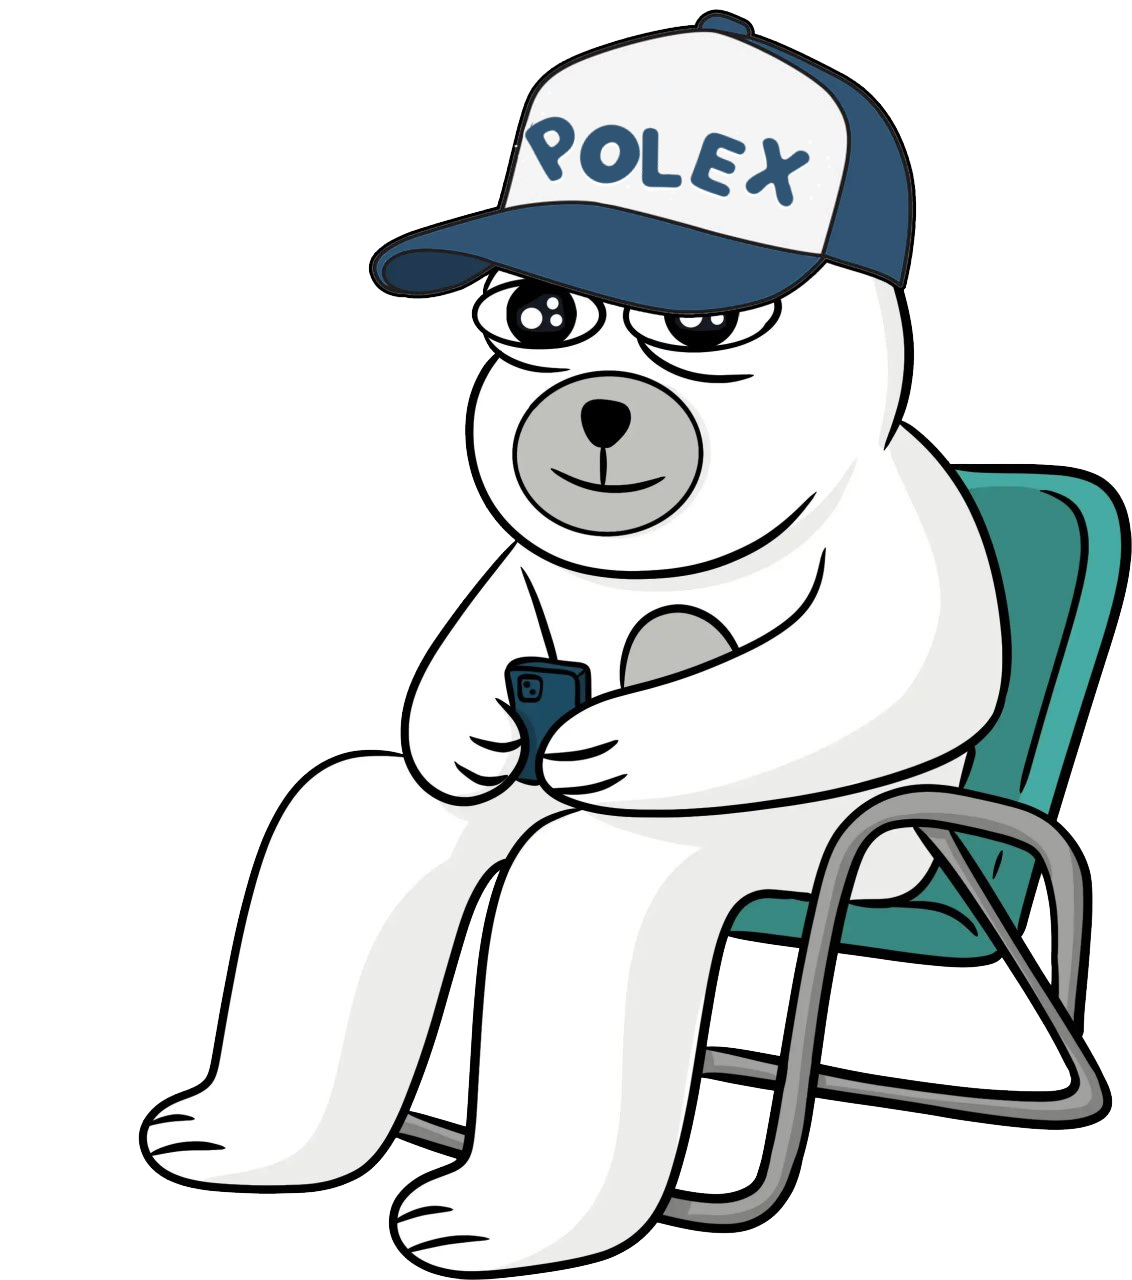
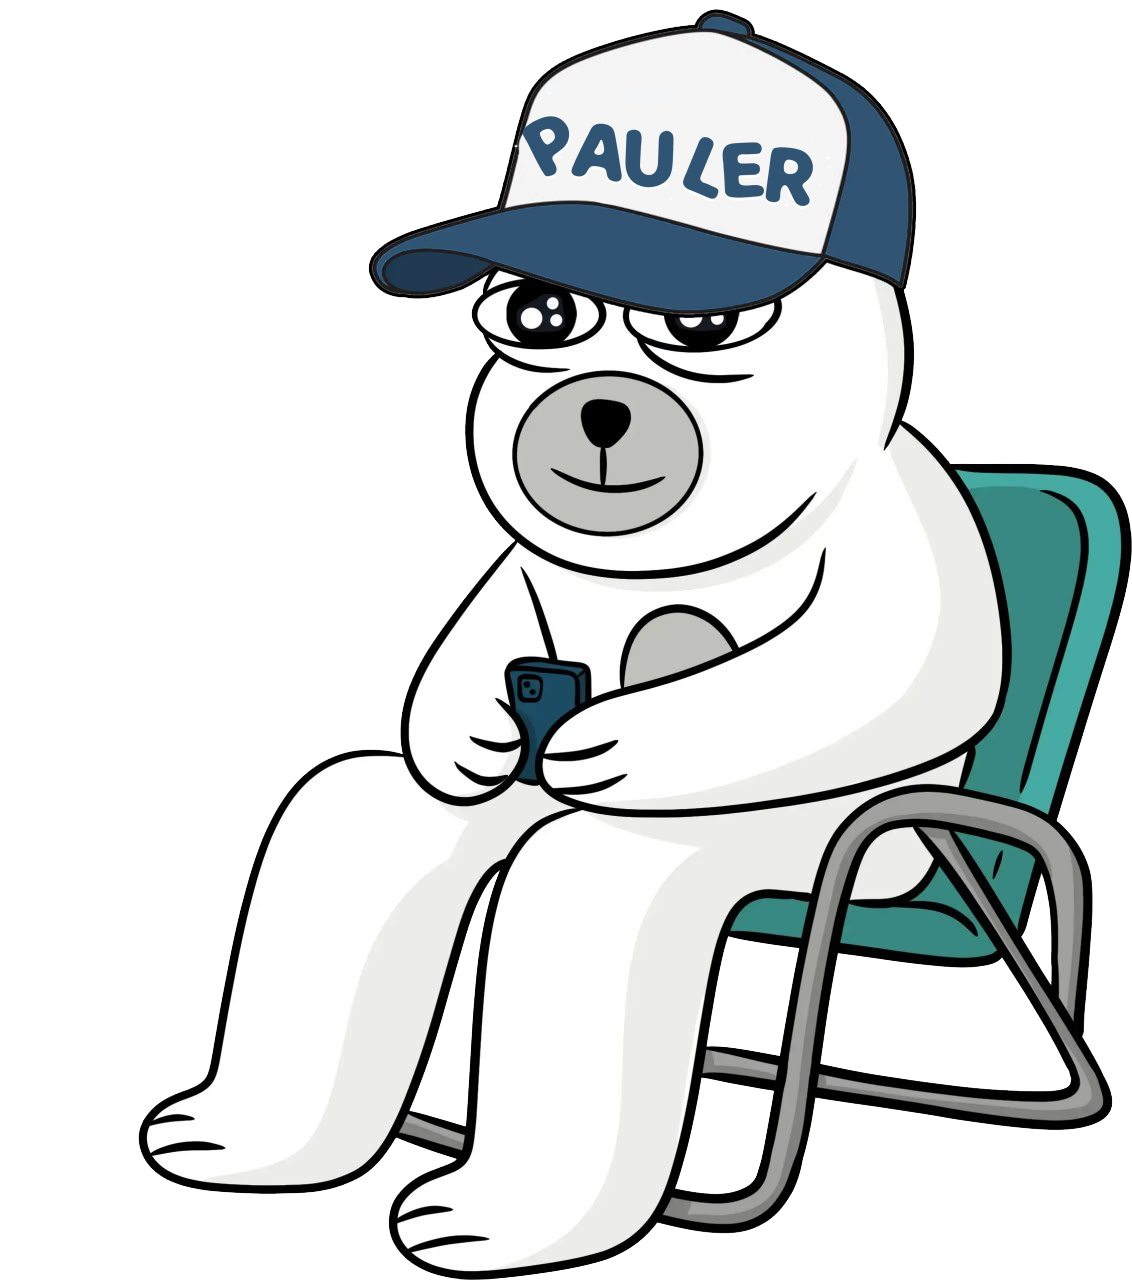
1

Changed region(s): [[0.4638, 0.0938, 0.742, 0.1875]]

diff --git a/index.html b/index.html
@@ -16,22 +16,22 @@
 		<meta name="distribution" content="global"> 
 		<meta name="robots" content="index,follow"> 
 		<meta name="country" content="US">
-		<meta name="description" content="POLEX is the newest charismatic fluffy ruler of the frozen crypto tundra. This fun, decentralized, community-driven token is built on Solana Chain.">
+		<meta name="description" content="PAULER is the newest charismatic fluffy ruler of the frozen crypto tundra. This fun, decentralized, community-driven token is built on Solana Chain.">
 		<meta name="google-site-verification" content="">
 		
 		<!-- Open Graph Meta Tags -->
 		<meta property="og:type" content="website">
 		<meta property="og:url" content="">
-		<meta property="og:title" content="Polex | The Official Polex Bear on Solanachain">
-		<meta property="og:description" content="POLEX is the newest charismatic fluffy ruler of the frozen crypto tundra. This fun, decentralized, community-driven token is built on Solana Chain.">
+		<meta property="og:title" content="Pauler | The Official Pauler Bear on Solanachain">
+		<meta property="og:description" content="PAULER is the newest charismatic fluffy ruler of the frozen crypto tundra. This fun, decentralized, community-driven token is built on Solana Chain.">
 
 		
 		<!-- Twitter Card Meta Tags -->
 		<meta name="twitter:card" content="summary_large_image">
 		<meta name="twitter:site" content="@polaonbase">
 		<meta name="twitter:url" content="https://www.polaonbase.com/">
-		<meta name="twitter:title" content="Polex | The Official Polexr Bear on Solanachain">
-		<meta name="twitter:description" content="POLEX is the newest charismatic fluffy ruler of the frozen crypto tundra. This fun, decentralized, community-driven token is built on Solana Chain.">
+		<meta name="twitter:title" content="Pauler | The Official Paulerr Bear on Solanachain">
+		<meta name="twitter:description" content="PAULER is the newest charismatic fluffy ruler of the frozen crypto tundra. This fun, decentralized, community-driven token is built on Solana Chain.">
 		<meta property="twitter:image" content="https://polaonbase.com/assets/images/pola-twitter-og.jpg">
 		
 		<!-- Favicon and Additional Resources -->
@@ -45,7 +45,7 @@
 		<meta name="msapplication-TileColor" content="#9c2730">
 		<meta name="theme-color" content="#ffffff">
 		
-		<title>Polex | The Official Polar Bear on Solanachain</title>
+		<title>Pauler | The Official Polar Bear on Solanachain</title>
 		<link href="assets/css/include.css" rel="stylesheet">
 		<!-- Google tag (gtag.js) -->
 		<script async src="https://www.googletagmanager.com/gtag/js?id=G-083C66RB80"></script>
@@ -72,14 +72,15 @@
 					<div class="hero w-100">
 						<h1 class="banner milky display-l lh-1 hstack align-items-center justify-content-center text-blue-4">
 							<span>P</span>
-							<span>O</span>
+							<span>A</span>
+							<span>U</span>
 							<span>L</span>
-							<span>E</span>
-							<span>X</span>
+							<span style="rotate: -10deg; margin-left:-20px; margin-right: 10px;">E</span>
+							<span>R</span>
 
 						</h1>
 						<div class="vstack mx-auto col-12 col-xl-6 milky fs-3 text-center gap-1 lh-base text-blue-4">
-							<span>Hi I'm Polex</span>
+							<span>Hi I'm Pauler</span>
 							<span>I'm the coldest, chillest, and funniest bear</span>
 							<span>in the entire SOLArctic. Welcome to my world.</span>
 						</div>
@@ -138,8 +139,8 @@
 				<div class="container py-5 position-relative">
 					<div class="d-flex flex-column col-12 col-lg-8 justify-content-center gap-4 text-center position-relative z-1 py-0 py-md-5 text-blue-4 milky">
 						<h2 class="display-3">A New King Has Risen</h2>
-						<p class="fs-5 lh-base">Meet Polex, the latest ruler of the icy domains of cryptocurrency, a royal polar bear who's more chilled than the arctic ice and cooler than the other side of the pillow. Born on the vast, frostbitten landscapes of the Solana Chain, this fluffy monarch has swiftly ascended to the throne, not through bloodshed or conquest, but with sheer charisma and an unshakable belief in the power of meme magic.</p>
-						<p class="fs-5 lh-base">This is not your average bear. Polex's reign is marked by his unorthodox approach to governance; he rules with a gentle paw and a heart as big as his appetite for salmon. In a world where seriousness often overshadows fun, Polex dares to ask, "Why not both?" He's democratizing the crypto kingdom one belly slide at a time, proving that you can indeed mix business with pleasure and that every bear can have his fish and eat it too.</p>
+						<p class="fs-5 lh-base">Meet Pauler, the latest ruler of the icy domains of cryptocurrency, a royal polar bear who's more chilled than the arctic ice and cooler than the other side of the pillow. Born on the vast, frostbitten landscapes of the Solana Chain, this fluffy monarch has swiftly ascended to the throne, not through bloodshed or conquest, but with sheer charisma and an unshakable belief in the power of meme magic.</p>
+						<p class="fs-5 lh-base">This is not your average bear. Pauler's reign is marked by his unorthodox approach to governance; he rules with a gentle paw and a heart as big as his appetite for salmon. In a world where seriousness often overshadows fun, Pauler dares to ask, "Why not both?" He's democratizing the crypto kingdom one belly slide at a time, proving that you can indeed mix business with pleasure and that every bear can have his fish and eat it too.</p>
 					</div>
 				</div>
 				<div class="baby-pola"></div>
@@ -149,17 +150,17 @@
 					<div class="d-flex flex-column-reverse flex-md-row gap-4">
 						<div class="d-flex flex-column justify-content-center gap-4 col-12 col-md-6">
 							<div class="d-flex flex-column gap-1 text-blue-4">
-								<span class="fs-4 milky lh-base">Polex on Solanachain</span>
-								<h2 class="milky display-s lh-1 ">OFFICIAL POLEX LINKS</h2>
+								<span class="fs-4 milky lh-base">Pauler on Solanachain</span>
+								<h2 class="milky display-s lh-1 ">OFFICIAL PAULER LINKS</h2>
 							</div>
 
 							<div class="d-flex flex-column gap-2">
 								<span class="fs-6 milky fw-bolder text-blue-4">Social &amp; Onchain Data</span>
 								<div class="socials hstack gap-3">
-									<a href="https://x.com/polexsolana" target="_blank">
+									<a href="https://x.com/paulersol" target="_blank">
 										<div class="icon twitter rounded-circle"></div>
 									</a>
-									<a href="https://t.me/polexsolana" target="_blank">
+									<a href="https://t.me/paulersol" target="_blank">
 										<div class="icon telegram rounded-circle"></div>
 									</a>
 									<a href="#" target="_blank">
@@ -174,7 +175,7 @@
 								<span class="fs-6 milky fw-bolder text-blue-4">Exchanges (MORE TBA)</span>
 								<div class="row row-cols-2 row-cols-lg-3 g-3">
 									<div class="col">
-										<a href="https://pump.fun/ghvPFx1sDttRKTxhCs35TnGQaxf8jtbDeJVkc1ykump" target="_blank" class="h-100 btn btn-md btn-light rounded-pill w-100 py-2 px-3">
+										<a href="https://pump.fun/dZNQURG3CreHsmTrvYKh7GiL1QtdxXYfbtM3fqEcump" target="_blank" class="h-100 btn btn-md btn-light rounded-pill w-100 py-2 px-3">
 											<img src="assets/logos/pumpfun.svg" class="w-75 mt-1" alt="uniswap link">
 										</a>
 									</div>
@@ -197,10 +198,10 @@
 							</div-->
 						</div>
 						<div class="col-12 col-md-4 pola-in-phone">
-							<a class="polarmy-buble polarmy-link" href="https://t.me/polexsolana"><img src="assets/images/pola-phone-bubble-r.png" class="w-100 " alt="click to join polarmy"></a>
-							<a href="https://t.me/polexsolana"><img src="assets/images/pola-phone-r.png" class="w-100 " alt="pola having fun on tg"></a>
-							<a class="polarmy-buble polarmy-link" href="https://t.me/polexsolana"><img src="assets/images/pola-phone-bubble-l.png" class="w-100 " alt="click to join polarmy"></a>
-							<a  href="https://t.me/polexsolana"><img src="assets/images/pola-phone-l.png" class="w-100 " alt="pola having fun on tg"></a>
+							<a class="polarmy-buble polarmy-link" href="https://t.me/paulersol"><img src="assets/images/pola-phone-bubble-r.png" class="w-100 " alt="click to join polarmy"></a>
+							<a href="https://t.me/paulersol"><img src="assets/images/pola-phone-r.png" class="w-100 " alt="pola having fun on tg"></a>
+							<a class="polarmy-buble polarmy-link" href="https://t.me/paulersol"><img src="assets/images/pola-phone-bubble-l.png" class="w-100 " alt="click to join polarmy"></a>
+							<a  href="https://t.me/paulersol"><img src="assets/images/pola-phone-l.png" class="w-100 " alt="pola having fun on tg"></a>
 						</div>
 					</div>
 					
@@ -226,17 +227,17 @@
 			<section id="tokenomics" class="position-relative bg-blue-4 py-5 snow-cap">
 				<div class="container py-5 position-relative">
 					<div class="vstack gap-4 text-center mb-5 col-12 col-xl-6 mx-auto text-white milky">
-						<h2 class="display-1 shouxietongzhen gradient-txt-1">Polexnomics</h2>
-						<p class="fs-5 lh-base">Adhering to the ethos of decentralization, $POLEX adopted a strategy to ensure genuine community ownership and nurture growth with steadfast support from the community.</p>
+						<h2 class="display-1 shouxietongzhen gradient-txt-1">Paulernomics</h2>
+						<p class="fs-5 lh-base">Adhering to the ethos of decentralization, $PAULER adopted a strategy to ensure genuine community ownership and nurture growth with steadfast support from the community.</p>
 					</div>
 
 					<div class="d-flex flex-column flex-xl-row disclaimer rounded-4 p-3 border border-4 border-blue-1 shadow gap-3 col-12 col-xl-8 mx-auto mb-4 bg-white milky text-blue-4">
-						<a href="https://pump.fun/ghvPFx1sDttRKTxhCs35TnGQaxf8jtbDeJVkc1ykump"><button class="btn btn-lg btn-light px-3">
-							<span class="fw-bold fs-6 text-blue-4">Buy $POLEX</span>
+						<a href="https://pump.fun/dZNQURG3CreHsmTrvYKh7GiL1QtdxXYfbtM3fqEcump"><button class="btn btn-lg btn-light px-3">
+							<span class="fw-bold fs-6 text-blue-4">Buy $PAULER</span>
 						</button></a>
 						<div class="col-12 col-xl-10 hstack gap-3 justify-content-between rounded-3 border p-1 fs-6">
-							<span class="text-truncate fw-bold ms-3 contact">Contract address: ghvPFx1sDttRKTxhCs35TnGQaxf8jtbDeJVkc1ykump</span>
-							<button class="btn btn-md btn-light copy" data-text="ghvPFx1sDttRKTxhCs35TnGQaxf8jtbDeJVkc1ykump">
+							<span class="text-truncate fw-bold ms-3 contact">Contract address: dZNQURG3CreHsmTrvYKh7GiL1QtdxXYfbtM3fqEcump</span>
+							<button class="btn btn-md btn-light copy" data-text="dZNQURG3CreHsmTrvYKh7GiL1QtdxXYfbtM3fqEcump">
 								<i class="bi bi-clipboard"></i>
 							</button>
 						</div>
@@ -309,7 +310,7 @@
 									<img src="assets/images/icons/base.svg" class="w-100" alt="base logo">
 								</div>
 								<h3 class="fw-bolder fs-1 milky text-uppercase lh-1">Secure Solana (BASE ETH)</h3>
-								<p class="fs-6 lh-base milky">Purchase Solanachain Ethereum (BASE), the foundational currency required for transactions on the base network where $POLEX operates. BASE ETH acts as the "gas" for transactions, including buying $POLEX.</p>
+								<p class="fs-6 lh-base milky">Purchase Solanachain Ethereum (BASE), the foundational currency required for transactions on the base network where $PAULER operates. BASE ETH acts as the "gas" for transactions, including buying $PAULER.</p>
 							</div>
 						</div>
 						<div class="col">
@@ -317,8 +318,8 @@
 								<div class="col-4 col-md-2">
 									<img src="assets/images/pola-5.webp" class="w-100" alt="buy pola">
 								</div>
-								<h3 class="fw-bolder fs-1 milky text-uppercase lh-1">Buy $POLEX</h3>
-								<p class="fs-6 lh-base milky">Use your newly acquired BASE ETH to purchase $POLEX tokens through a cryptocurrency exchange or decentralized exchange platform that lists $POLEX.</p>
+								<h3 class="fw-bolder fs-1 milky text-uppercase lh-1">Buy $PAULER</h3>
+								<p class="fs-6 lh-base milky">Use your newly acquired BASE ETH to purchase $PAULER tokens through a cryptocurrency exchange or decentralized exchange platform that lists $PAULER.</p>
 							</div>
 						</div>
 						<div class="col">
@@ -327,7 +328,7 @@
 									<img src="assets/images/icons/crypto-wallet.svg" class="w-100" alt="wallet logo">
 								</div>
 								<h3 class="fw-bolder fs-1 milky text-uppercase lh-1">Add To Your Wallet</h3>
-								<p class="fs-6 lh-base milky">Import $POLEX tokens into your MetaMask wallet by adding the pola token's contract address. This allows you to view and manage your $POLEX holdings directly within MetaMask.</p>
+								<p class="fs-6 lh-base milky">Import $PAULER tokens into your MetaMask wallet by adding the pola token's contract address. This allows you to view and manage your $PAULER holdings directly within MetaMask.</p>
 							</div>
 						</div>
 					</div>
@@ -345,8 +346,8 @@
 					
 						<img src="assets/images/VPN-Logo.svg" class="vpn-logo" alt="pola vpn logo">
 						
-						<h2 class="text-nowrap milky display-s lh-1">Polex VPN</h2>
-						<span class="text-center fs-6 lh-base milky">POLEXVPN is the very first memecoin to have this feature. it is your gateway to a secure and unrestricted online experience, designed with your privacy in mind. Whether you're browsing, streaming, or working remotely, POLEXVPN ensures your data stays protected and your connections remain anonymous.</span>
+						<h2 class="text-nowrap milky display-s lh-1">Pauler VPN</h2>
+						<span class="text-center fs-6 lh-base milky">PAULERVPN is the very first memecoin to have this feature. it is your gateway to a secure and unrestricted online experience, designed with your privacy in mind. Whether you're browsing, streaming, or working remotely, PAULERVPN ensures your data stays protected and your connections remain anonymous.</span>
 						<div class="vpn-button-container" >
 							<button type="button" id="openISOApp" class="vpn-button border btn btn-light rounded-pill milky py-4 p-5 hstack gap-3 justify-content-center w-48">
 								<span class="fw-bolder fs-4">Android App soon</span>
@@ -403,10 +404,10 @@
 								<img src="assets/images/nfts/10.webp" alt="pola nft">
 							</div>
 						</div>
-						<h2 class="display-s lh-1 milky text-blue-4">POLEX NFT</h2>
+						<h2 class="display-s lh-1 milky text-blue-4">PAULER NFT</h2>
 						<div class="vstack gap-3 fs-6 fw-normal lh-base text-dark text-opacity-75">
-							<p>Explore POLEX NFT, an enchanting collection of 5,000 NFTs, released on Solana drawing inspiration from a cherished polar bear, these NFTs capture the essence and spirit of a unique polar bear-inspired theme.</p>
-							<p>Owning a POLEX NFT connects you to the dynamic community surrounding this theme, signifying your appreciation and embrace of the unique culture these digital assets symbolize.</p>
+							<p>Explore PAULER NFT, an enchanting collection of 5,000 NFTs, released on Solana drawing inspiration from a cherished polar bear, these NFTs capture the essence and spirit of a unique polar bear-inspired theme.</p>
+							<p>Owning a PAULER NFT connects you to the dynamic community surrounding this theme, signifying your appreciation and embrace of the unique culture these digital assets symbolize.</p>
 						</div>
 						<div>
 							<span class="fw-bold fw-bold py-2 rounded-pill">Collection Coming Soon</span>
@@ -423,14 +424,14 @@
 							<div class="d-flex flex-column gap-1 text-blue-4">
 								<span class="fs-4 milky">Ice Cream Products</span>
 								<div class="hstack">
-									<h2 id="data-title" class="text-nowrap milky display-s lh-1">PolexPops</h2>
+									<h2 id="data-title" class="text-nowrap milky display-s lh-1">PaulerPops</h2>
 									<span class="fs-2 fw-bold lh-1">ⓒ</span>
 								</div>
-								<span id="data-description" class="fs-6 lh-base milky">Polex Pops brings a refreshing twist to your favorite frozen treat! Our ice creams are handcrafted with natural ingredients, offering a burst of flavors that are as unique as they are delicious. From the classic creamy delights to exotic fruit-filled wonders, each Polex Pop is designed to provide a blissful escape into a world of sweet, frosty pleasure.</span>
+								<span id="data-description" class="fs-6 lh-base milky">Pauler Pops brings a refreshing twist to your favorite frozen treat! Our ice creams are handcrafted with natural ingredients, offering a burst of flavors that are as unique as they are delicious. From the classic creamy delights to exotic fruit-filled wonders, each Pauler Pop is designed to provide a blissful escape into a world of sweet, frosty pleasure.</span>
 							</div>
 
 							<div class="d-flex flex-column gap-4">
-								<span class="fs-3 milky text-blue-4">PolexPops Flavors</span>
+								<span class="fs-3 milky text-blue-4">PaulerPops Flavors</span>
 								<div class="row row-cols-3 row-cols-md-5 g-3 ice-creams">
 																		<div data-id="1" class="col data-source">
 										<a role="button" data-image="assets/flavors/1.webp" class="vstack h-100 rounded-4 p-3 gap-3 text-center">
@@ -499,7 +500,7 @@
 								<span class="fw-bold fs-6">Legal Disclaimer</span>
 								<i class="bi bi-arrow-down-circle-fill"></i>
 							</a>
-							<p id="legal" class="p-3 fs-7 lh-base d-none text-white">The content on the Polex Token website is not meant to be understood as investment, financial, trading, or any form of advice, and should not be interpreted as such. Polex Token does not suggest that any should be bought, sold, or held by you. It is important to perform your own thorough research and consult with your financial advisor prior to making any investment decisions. By acquiring Polex Token, you acknowledge that you are not obtaining a security or investment and you agree to absolve Polex Token of any responsibility for any losses or taxes you may face. Additionally, you accept that Polex Token is offered "as is" without any obligation for support or services. Expectations from Polex Token should be none. Although Polex Token is designed for social networking and is not a registered digital currency, it is highly advised that individuals in locations where is banned by the government refrain from purchasing it, as Polex Token cannot guarantee adherence to the legal requirements of your region. Always ensure your actions are in full compliance with local laws and regulations before making any purchases.</p>
+							<p id="legal" class="p-3 fs-7 lh-base d-none text-white">The content on the Pauler Token website is not meant to be understood as investment, financial, trading, or any form of advice, and should not be interpreted as such. Pauler Token does not suggest that any should be bought, sold, or held by you. It is important to perform your own thorough research and consult with your financial advisor prior to making any investment decisions. By acquiring Pauler Token, you acknowledge that you are not obtaining a security or investment and you agree to absolve Pauler Token of any responsibility for any losses or taxes you may face. Additionally, you accept that Pauler Token is offered "as is" without any obligation for support or services. Expectations from Pauler Token should be none. Although Pauler Token is designed for social networking and is not a registered digital currency, it is highly advised that individuals in locations where is banned by the government refrain from purchasing it, as Pauler Token cannot guarantee adherence to the legal requirements of your region. Always ensure your actions are in full compliance with local laws and regulations before making any purchases.</p>
 						</div>
 
 						<div class="vstack disclaimer rounded-4 shadow-sm">
@@ -512,11 +513,11 @@
 
 						<div class="d-flex flex-column flex-xl-row disclaimer rounded-4 p-3 shadow gap-3">
 							<button class="btn btn-lg btn-light px-3">
-								<a class="fw-bold fs-6 text-nowrap text-black" href="https://pump.fun/ghvPFx1sDttRKTxhCs35TnGQaxf8jtbDeJVkc1ykump" target="_blank">Buy $POLEX</a>
+								<a class="fw-bold fs-6 text-nowrap text-black" href="https://pump.fun/dZNQURG3CreHsmTrvYKh7GiL1QtdxXYfbtM3fqEcump" target="_blank">Buy $PAULER</a>
 							</button>
 							<div class="col-12 col-xl-10 text-white hstack gap-3 justify-content-between rounded-3 border p-1 fs-6">
-								<span class="text-truncate fw-bold ms-3 contact">Contract address: ghvPFx1sDttRKTxhCs35TnGQaxf8jtbDeJVkc1ykump</span>
-								<button class="btn btn-md btn-light copy" data-text="ghvPFx1sDttRKTxhCs35TnGQaxf8jtbDeJVkc1ykump">
+								<span class="text-truncate fw-bold ms-3 contact">Contract address: dZNQURG3CreHsmTrvYKh7GiL1QtdxXYfbtM3fqEcump</span>
+								<button class="btn btn-md btn-light copy" data-text="dZNQURG3CreHsmTrvYKh7GiL1QtdxXYfbtM3fqEcump">
 									<i class="bi bi-clipboard"></i>
 								</button>
 							</div>
@@ -526,10 +527,10 @@
 							<div class="col-12 col-md-4">
 								<div class="vstack gap-3">
 									<img src="assets/logos/pola.svg" class="col-8" alt="pola logo">
-									<small class="d-block mb-3">Collect, create, and engage with Polex!</small>
+									<small class="d-block mb-3">Collect, create, and engage with Pauler!</small>
 									<div class="hstack gap-4">
-										<a href="https://x.com/polexsolana" target="_blank" class="fs-4"><i class="bi bi-twitter"></i></a>
-										<a href="https://t.me/polexsolana" target="_blank" class="fs-4"><i class="bi bi-telegram"></i></a>
+										<a href="https://x.com/paulersol" target="_blank" class="fs-4"><i class="bi bi-twitter"></i></a>
+										<a href="https://t.me/paulersol" target="_blank" class="fs-4"><i class="bi bi-telegram"></i></a>
 									</div>
 								</div>
 							</div>
@@ -543,13 +544,13 @@
 		<div class="menu text-nowrap rounded-pill position-fixed bottom-0 z-3 bg-white border border-4 shadow d-none d-lg-block">
 			<div class="menu-list hstack gap-1">
 								<a href="#home" class="d-none d-md-block btn rounded-pill active.">Home</a>
-								<a href="#about" class="d-none d-md-block btn rounded-pill">About Polex</a>
+								<a href="#about" class="d-none d-md-block btn rounded-pill">About Pauler</a>
 								<a href="#links" class="d-none d-md-block btn rounded-pill">Ecosystem</a>
 								<a href="#tokenomics" class="d-none d-md-block btn rounded-pill">Tokenomics</a>
 
 								<a href="#vpn" class="d-none d-md-block btn rounded-pill">VPN</a>
 								<a href="#nft" class="d-none d-md-block btn rounded-pill">NFT</a>
-								<a href="#popsicles" class="d-none d-md-block btn rounded-pill">PolexPops</a>
+								<a href="#popsicles" class="d-none d-md-block btn rounded-pill">PaulerPops</a>
 								<a href="#" class="d-block d-md-none hamburger-menu">
 					<div></div>
 					<div></div>
